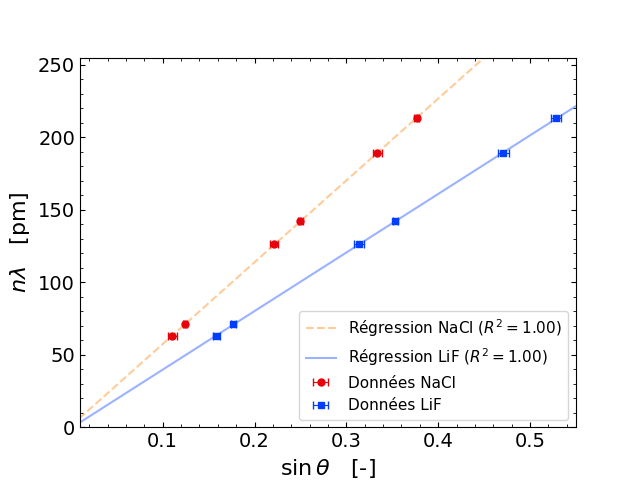
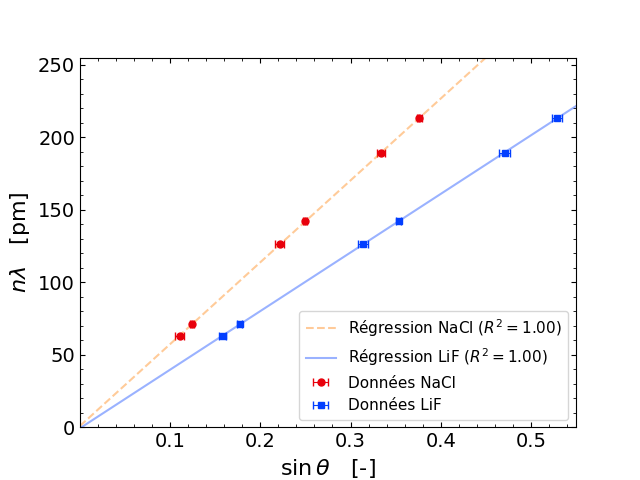
bragg_a0

diff --git a/analyse_a0.py b/analyse_a0.py
@@ -113,12 +113,14 @@ if write:
 df_nacl = pd.read_excel(excel_file_path, sheet_name="NaCl")
 sintheta_nacl = df_nacl["sintheta"]
 sinerr_nacl = df_nacl["sinerr"]
+err_nacl = df_nacl["err"]
 nlambda_nacl = df_nacl["nlambda"]
 slope_nacl, intercept_nacl, rvalue_nacl, stderr_nacl, _ = linregress(sintheta_nacl, nlambda_nacl)
 
 df_lif = pd.read_excel(excel_file_path, sheet_name="LiF")
 sintheta_lif = df_lif["sintheta"]
 sinerr_lif = df_lif["sinerr"]
+err_lif = df_lif["err"]
 nlambda_lif = df_lif["nlambda"]
 slope_lif, intercept_lif, rvalue_lif, stderr_lif, _ = linregress(sintheta_lif, nlambda_lif)
 
@@ -136,7 +138,7 @@ plt.plot(x_range, slope_lif * x_range + intercept_lif, color=palette[0], linesty
 plt.ylabel(r'$n\lambda$   [pm]', fontsize=16)
 plt.xlabel(r'$\sin\theta$   [-]', fontsize=16)
 plt.minorticks_on()
-plt.xlim(0.01, 0.55)
+plt.xlim(0.0001, 0.55)
 plt.ylim(0, 255)
 plt.tick_params(axis="both", which="both", direction="in", top=True, right=True, labelsize=14)
 plt.legend(fontsize=11)
@@ -146,5 +148,7 @@ os.makedirs(out_dir, exist_ok=True)
 
 plt.savefig(os.path.join(out_dir, "bragg_slope_"), transparent=True)
 plt.close()
-print(f"a0 NaCl : {slope_nacl:.2f} ± {stderr_nacl:.2e}")
-print(f"a0 LiF : {slope_lif:.2f} ± {stderr_lif:.2e}")
+nacl_error = stderr_nacl + np.mean(err_nacl)
+lif_error = stderr_lif + np.mean(err_lif)
+print(f"a0 NaCl : {slope_nacl:.2f} ± {nacl_error:.2f}")
+print(f"a0 LiF : {slope_lif:.2f} ± {lif_error:.2f}")
